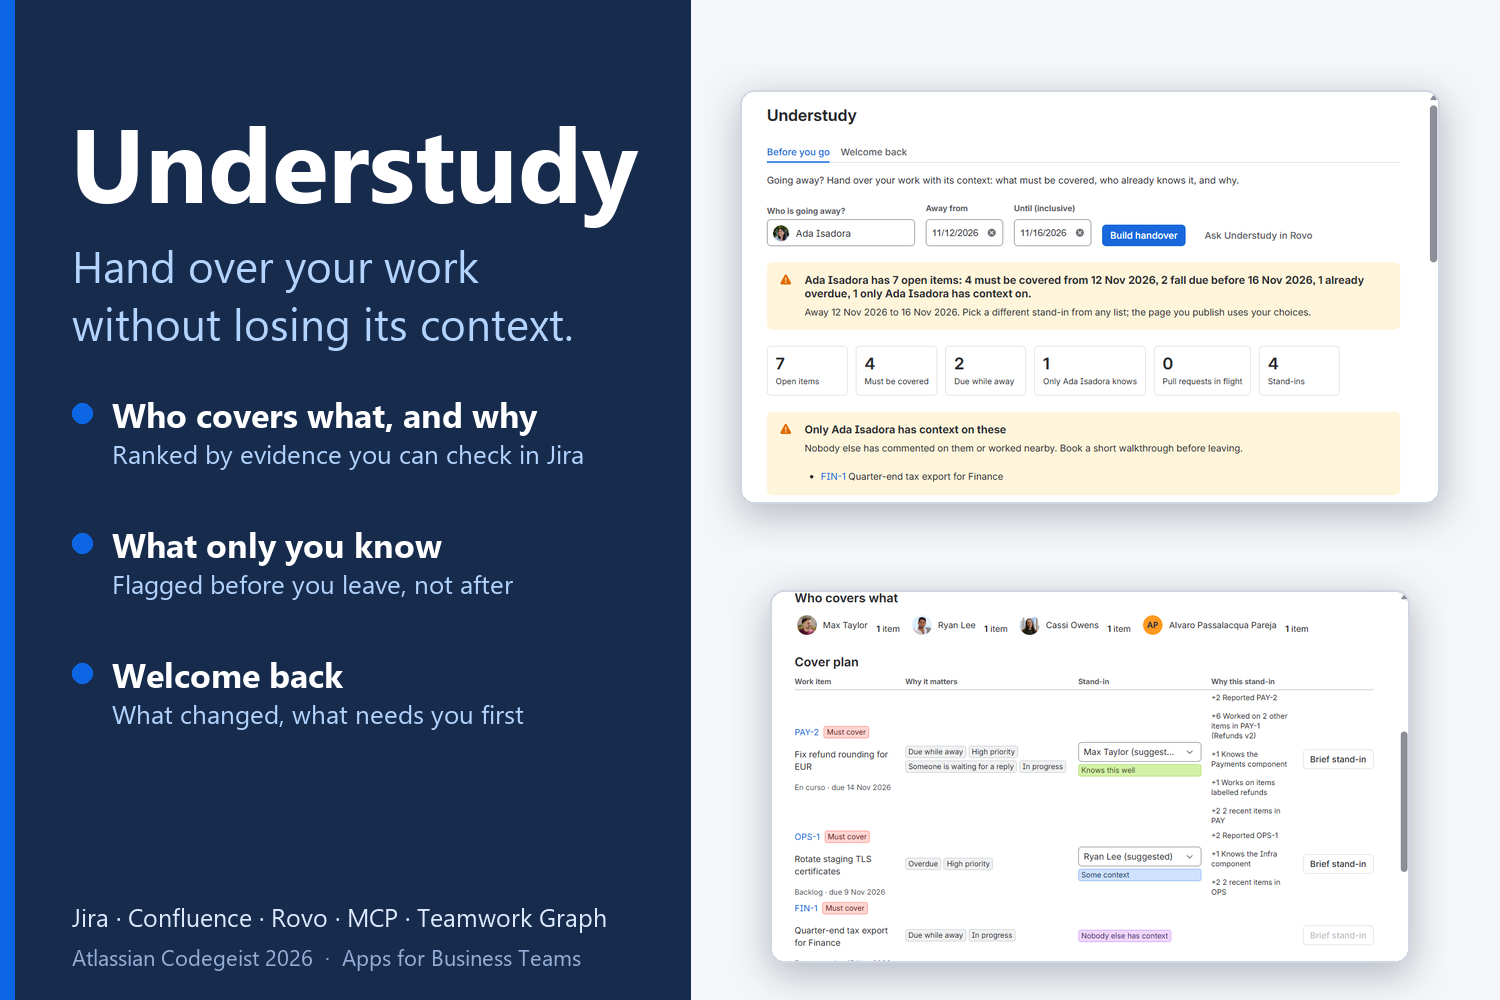
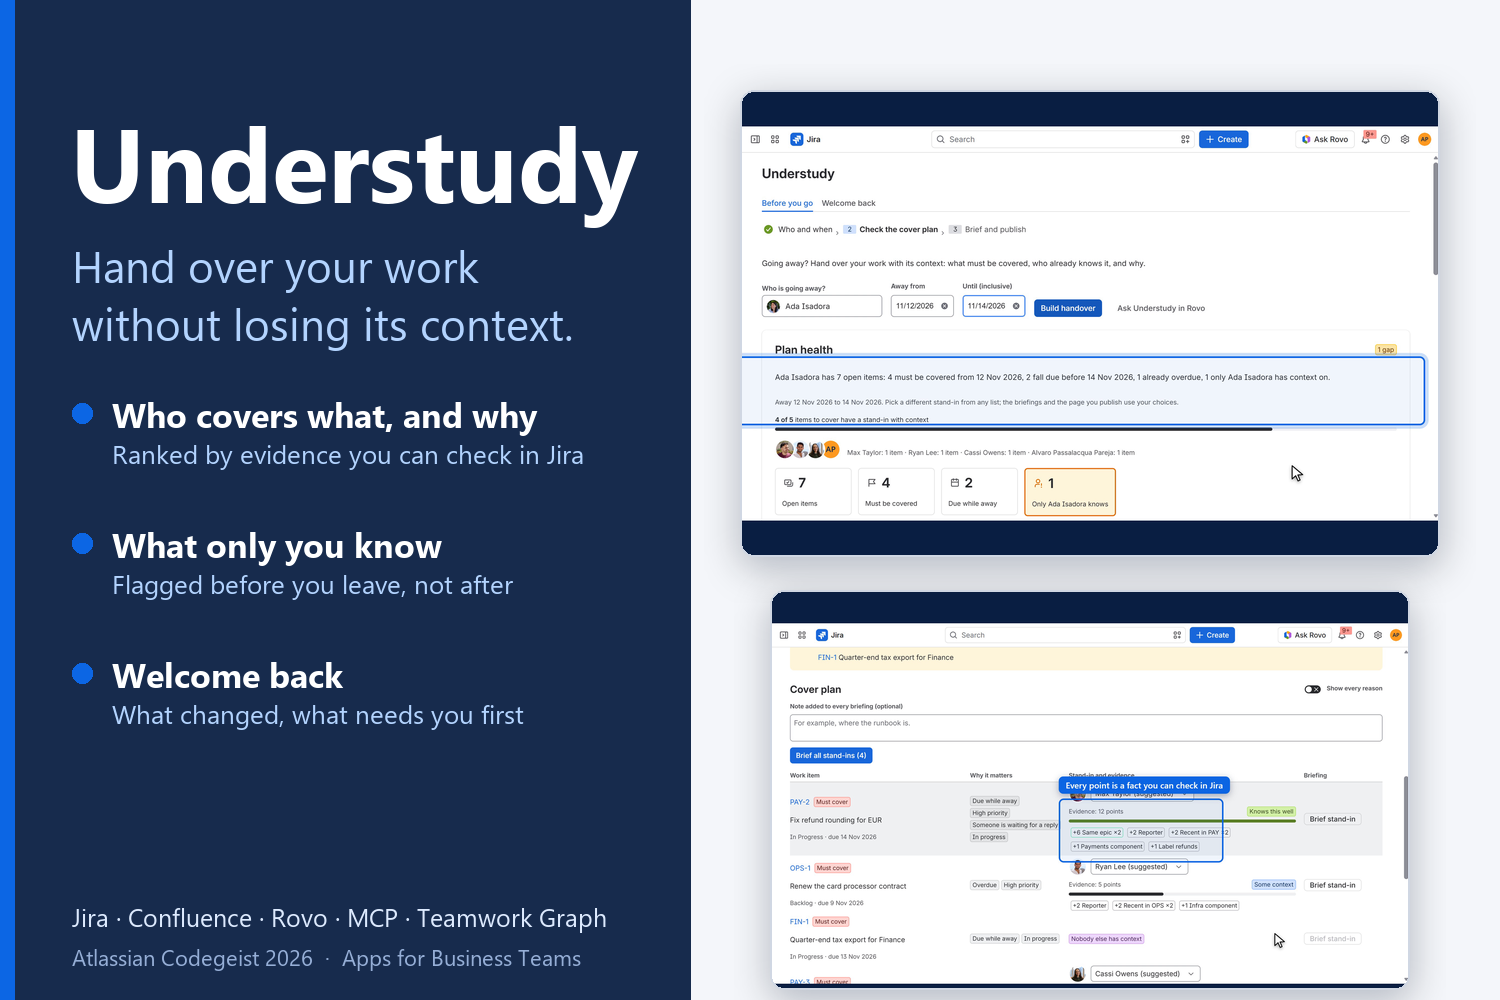
Docs: the new demo video and an English gallery from the live app
The README and submission notes point to the 2:48 demo (English UI, the
redesigned screens, MCP shown live from an external client). The
gallery images are new captures of the same live app, plus the title
and architecture cards with the current test count.

Changed region(s): [[0.4907, 0.093, 0.9813, 1.0]]

diff --git a/docs/SUBMISSION.md b/docs/SUBMISSION.md
@@ -37,7 +37,7 @@ Distribution is set to "Sharing with anyone" (production environment, Jira, with
 
 ## Demo video (YouTube, public, under 5 minutes)
 
-https://youtu.be/pooYSBFNaFw (public, 2:37)
+https://youtu.be/s1VzERdO49g (public, 2:48)
 
 ## About the project
 
@@ -57,7 +57,7 @@ Handovers weigh on people before and after leave. [46% of US workers with paid t
 
 It also flags **work only you have context on**: items where nobody else has commented or worked nearby. Those need a 15-minute walkthrough before you leave, not a reassignment, and that is the knowledge most handovers lose.
 
-Then one click briefs each stand-in: a comment on the work item that @-mentions them with what they cover, why it matters and why they were picked, and adds them as a watcher. Another click publishes the whole handover as a Confluence page.
+Then one click briefs every stand-in (or one at a time): a comment on the work item that @-mentions them with what they cover, why it matters and why they were picked, and adds them as a watcher. Another click publishes the whole handover as a Confluence page.
 
 **Welcome back.** When you return, Understudy shows what other people did on your work since your first day away (status changes, reassignments, comments), with what needs you first: mentions, items handed to you, replies waiting. It recognizes its own briefings, so it can tell you which stand-in covered what.
 
@@ -80,7 +80,7 @@ Then one click briefs each stand-in: a comment on the work item that @-mentions 
 - **Teamwork Graph API:** curated queries `atlassianUserInTeams` and `atlassianTeamMembers` (who is on the person's teams), `atlassianUserPullRequests` and `jiraWorkItemLinkedExternalPullRequests` (code in flight, batched with GraphQL aliases) and `atlassianUserGoalsAndProjects` (what the work rolls up to). Each query has a plainer fallback, and missing scopes degrade to "not available" rather than failing the handover.
 - **Jira and Confluence REST:** enhanced JQL search (with changelogs for Welcome back), ADF comments with mentions, watchers, CQL page search, and v2 pages to publish.
 - **Design for trust:** every call runs as the user (`asUser`), the graph is read-only, nothing is stored, nothing leaves Atlassian, and Understudy only writes (a comment, a watcher, a page) after a person confirms. Agent inputs come from an LLM, so identity always comes from the invocation context, and every key and account ID is validated before it reaches JQL.
-- **Quality:** the scoring, planning, rendering and parsing logic is pure TypeScript with 37 unit tests. We checked every REST endpoint we call against Atlassian's published OpenAPI specs to keep the scope list minimal and complete, and then tested every surface live on a Forge demo site with 25 projects and thousands of work items.
+- **Quality:** the scoring, planning, rendering and parsing logic is pure TypeScript with 67 unit tests. We checked every REST endpoint we call against Atlassian's published OpenAPI specs to keep the scope list minimal and complete, and then tested every surface live on a Forge demo site with 25 projects and thousands of work items.
 
 ### Challenges we ran into
 
@@ -94,7 +94,7 @@ Then one click briefs each stand-in: a comment on the work item that @-mentions 
 - The "only you know this" warning: the part of a handover that usually gets lost, found automatically.
 - One engine behind four surfaces (page, issue panel, Rovo agent, MCP), so they always agree.
 - A complete loop: hand over, brief, publish, and hand back.
-- Every surface (the Jira page, the work item panel, the Rovo agent and the MCP tools) was exercised live on an Atlassian demo site; the Teamwork Graph queries are implemented and degrade gracefully, and for the demo site's fictional users the graph returned no data, which the app reports in its sources line ("Teamwork Graph no data") instead of hiding.
+- Every surface was exercised live on an Atlassian demo site: the Jira page, the work item panel, the Rovo agent, and the MCP tools from an external client (MCP Inspector) through Atlassian's MCP server. The Teamwork Graph queries are implemented and degrade gracefully: on the demo site the graph had no data for the fictional users and refused queries for our university-managed account, and the app says so in its sources line instead of hiding it.
 
 ### What we learned
 

diff --git a/README.md b/README.md
@@ -15,9 +15,9 @@ It works in four places: a Jira page, a panel on every work item, a Rovo agent w
 
 ## Demo video
 
-[![Understudy demo video, 2 minutes 37 seconds](docs/gallery/09-demo-video-thumbnail.png)](https://youtu.be/pooYSBFNaFw)
+[![Understudy demo video, 2 minutes 48 seconds](docs/gallery/demo-video-thumbnail.png)](https://youtu.be/s1VzERdO49g)
 
-The live app on a real Atlassian site: build a handover, the evidence behind each stand-in, the warning for what only the person knows, briefing and publishing, the work item panel, the Rovo agent, MCP and Welcome back (2:37).
+The live app on a real Atlassian site: build a handover, the evidence behind each stand-in, the warning for what only the person knows, briefing and publishing, the work item panel, the Rovo agent, MCP and Welcome back (2:48).
 
 ## What it does
 
